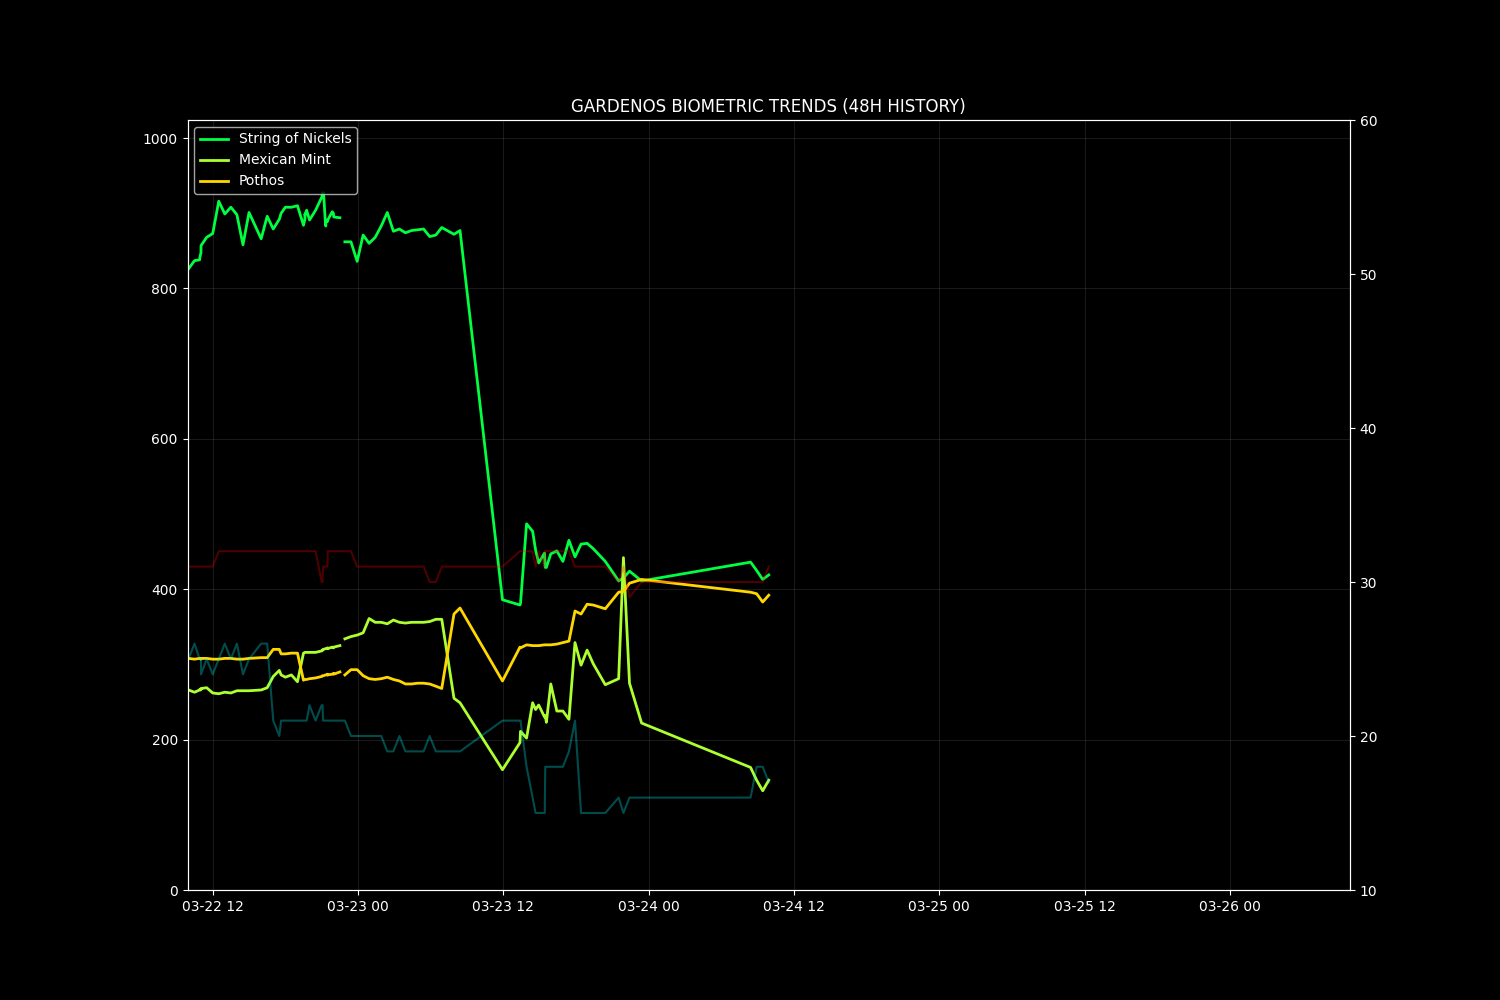
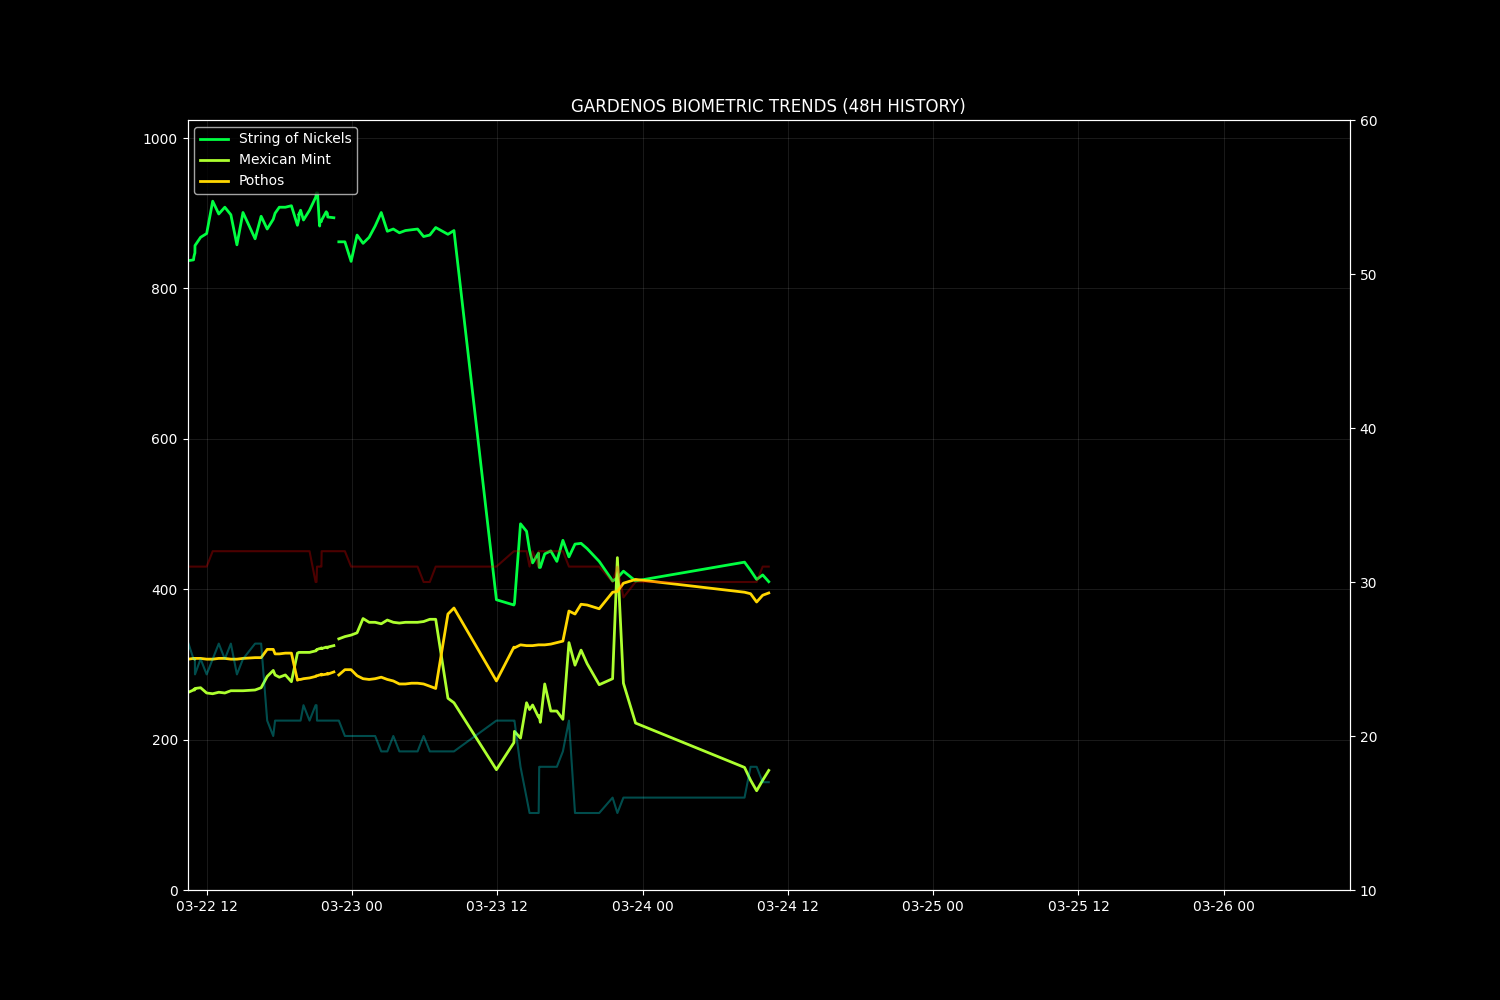
Warden Cycle: 2026-03-24 10:25:29

diff --git a/docs/data/observer_context.md b/docs/data/observer_context.md
@@ -1,21 +1,21 @@
 # 📝 Garden Observer Context
-**Generated:** 2026-03-24 08:58:01
+**Generated:** 2026-03-24 09:58:01
 
 ## 1. 🌡 Recent Telemetry (Last 12 Readings)
 ```csv
 timestamp,temp,hum,light,p1,p2,p3
-2026-03-23 23:25:29,30.0,16.0,829,411.0,222.0,413.0
-2026-03-24 08:25:28,30.0,16.0,514,436.0,163.0,396.0
 2026-03-24 08:55:28,30.0,18.0,704,425.0,146.0,394.0
+2026-03-24 09:25:28,30.0,18.0,544,413.0,132.0,383.0
+2026-03-24 09:55:28,31.0,17.0,554,419.0,146.0,392.0
 
 ```
 
 ## 2. 📊 Computed Metrics (Last 12 Calculations)
 ```csv
 timestamp,vpd,p1_pct,p1_slope,p2_pct,p2_slope,p3_pct,p3_slope,p4_pct,p4_slope,p5_pct,p5_slope,p6_pct,p6_slope,p1_is_dry,p2_is_dry,p3_is_dry
-2026-03-23 23:25:29,3.564,96.9,,92.7,,74.4,,,,,,,,False,False,False
-2026-03-24 08:25:28,3.564,89.3,,100.0,,79.2,,,,,,,,False,False,False
 2026-03-24 08:55:28,3.479,92.6,,100.0,,79.8,,,,,,,,False,False,False
+2026-03-24 09:25:28,3.479,96.3,,100.0,,82.9,,,,,,,,False,False,False
+2026-03-24 09:55:28,3.729,94.5,,100.0,,80.3,,,,,,,,False,False,False
 
 ```
 
